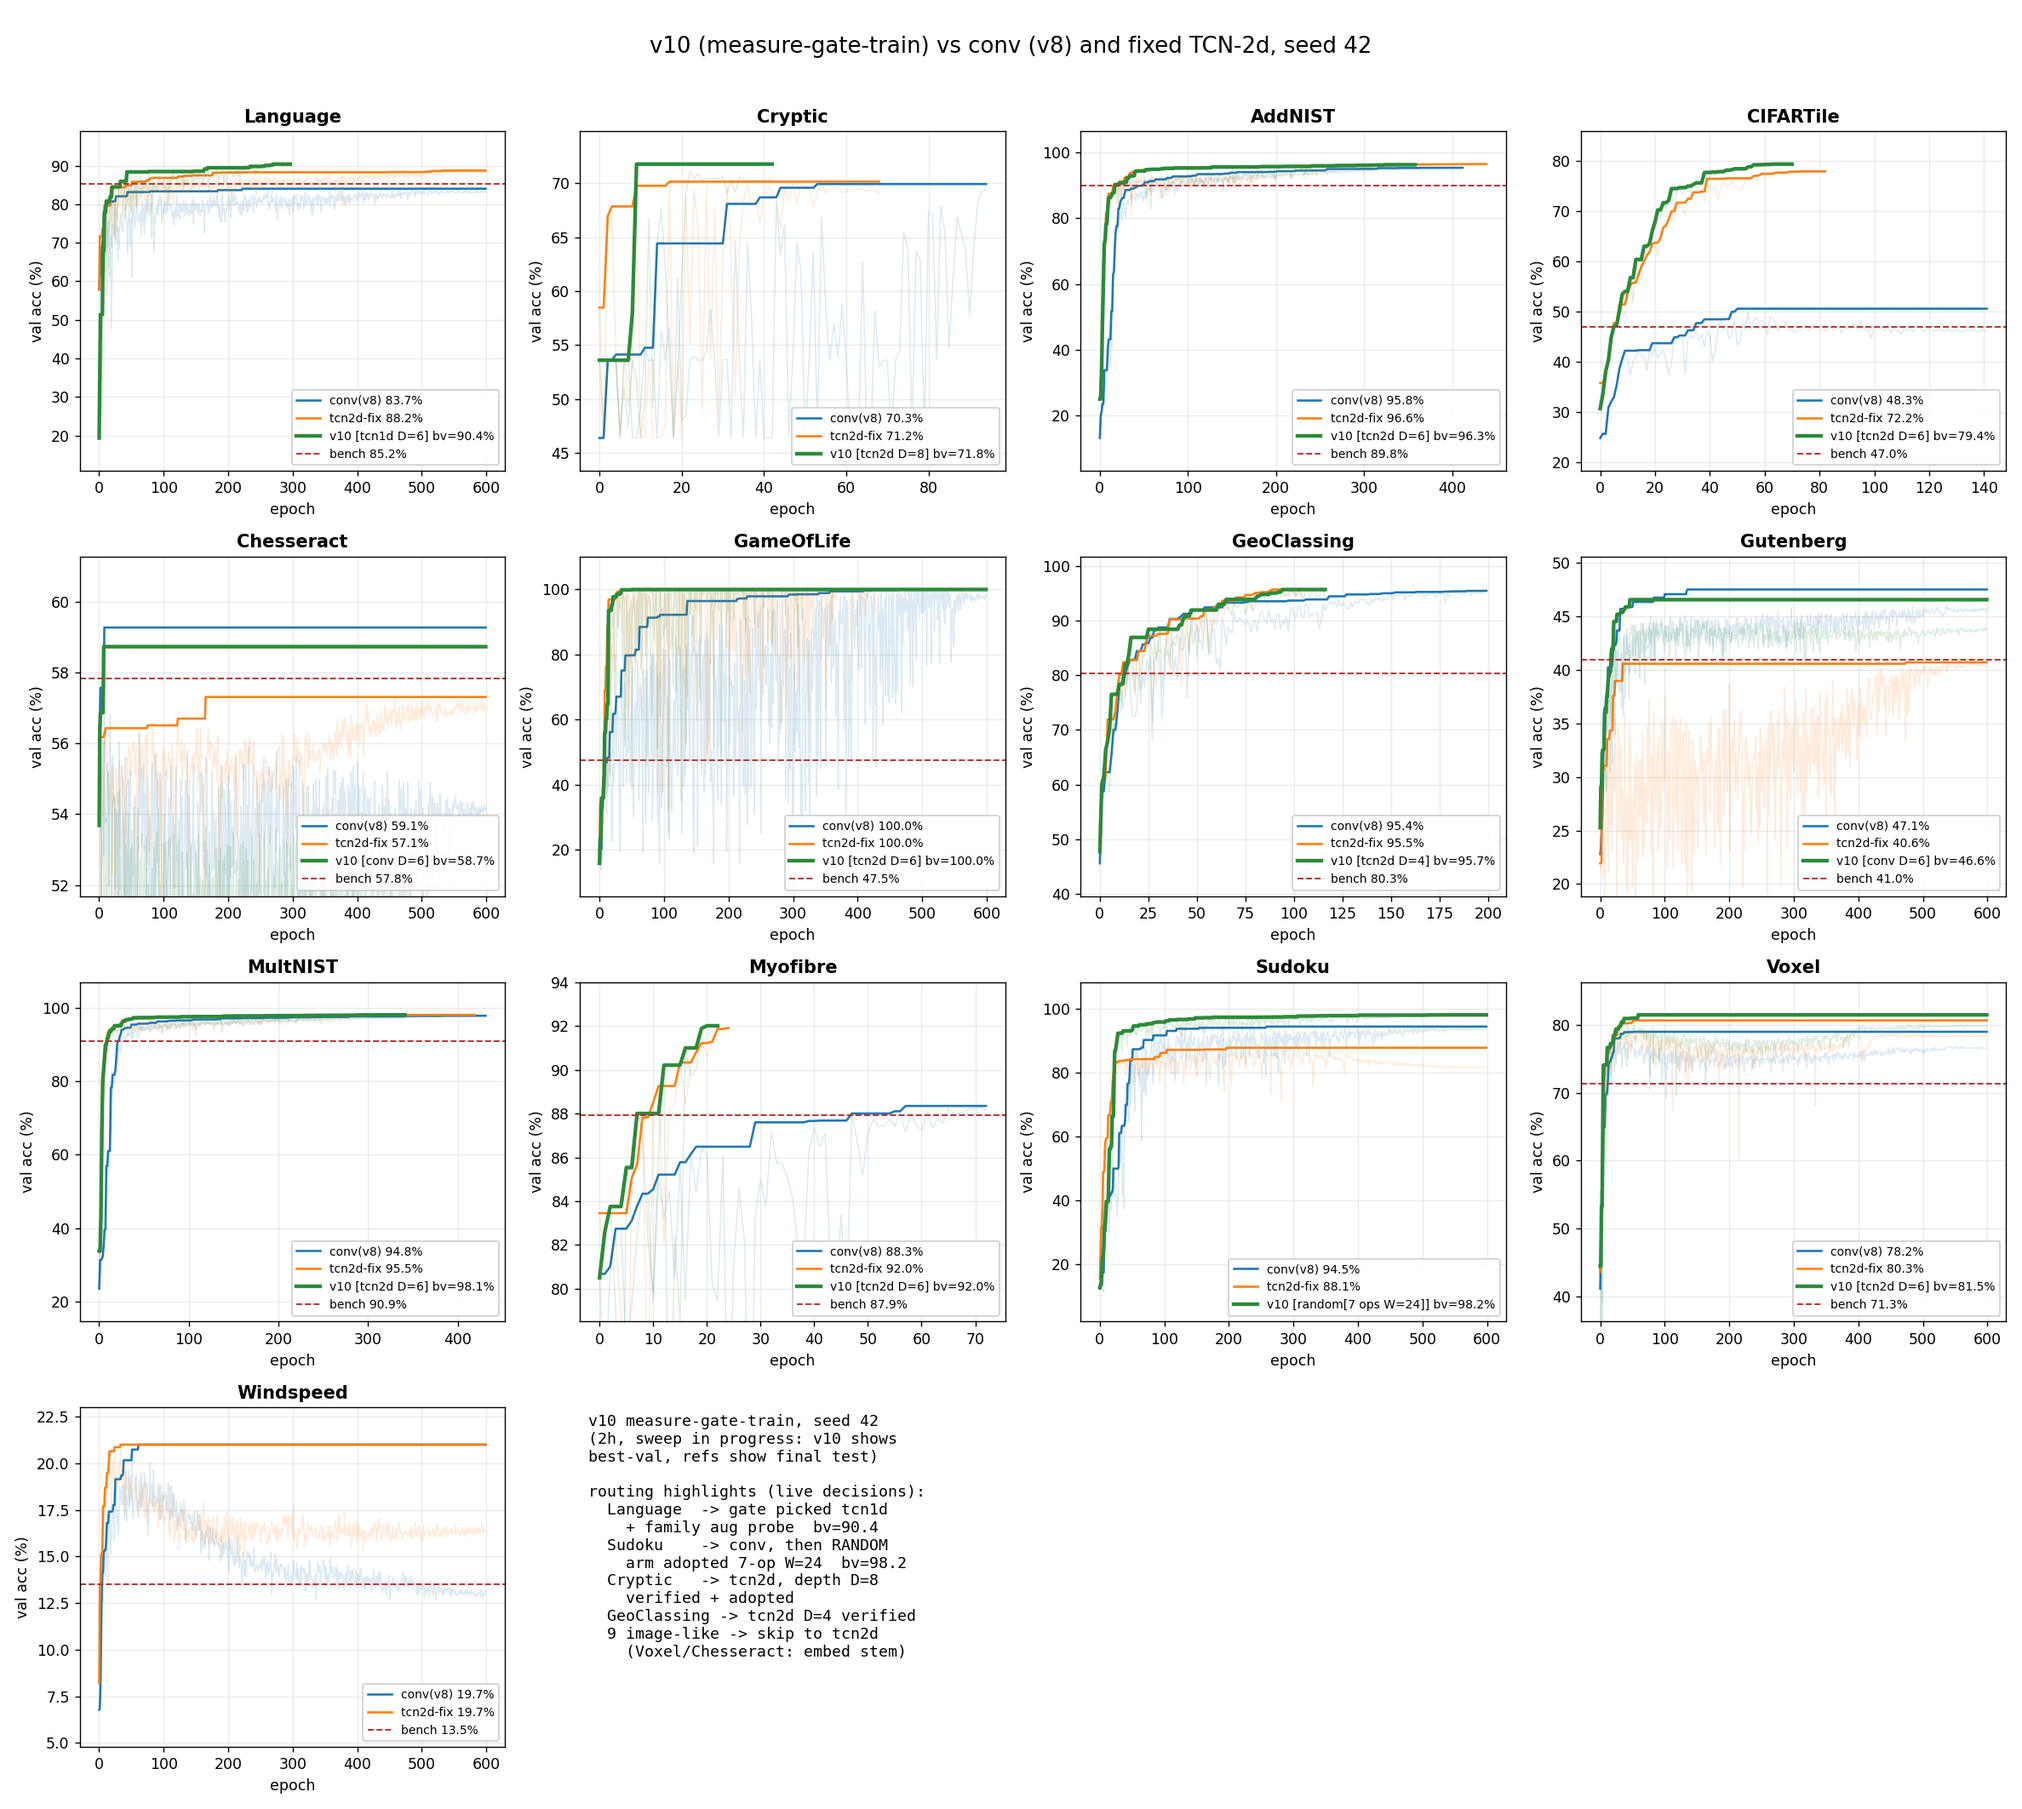
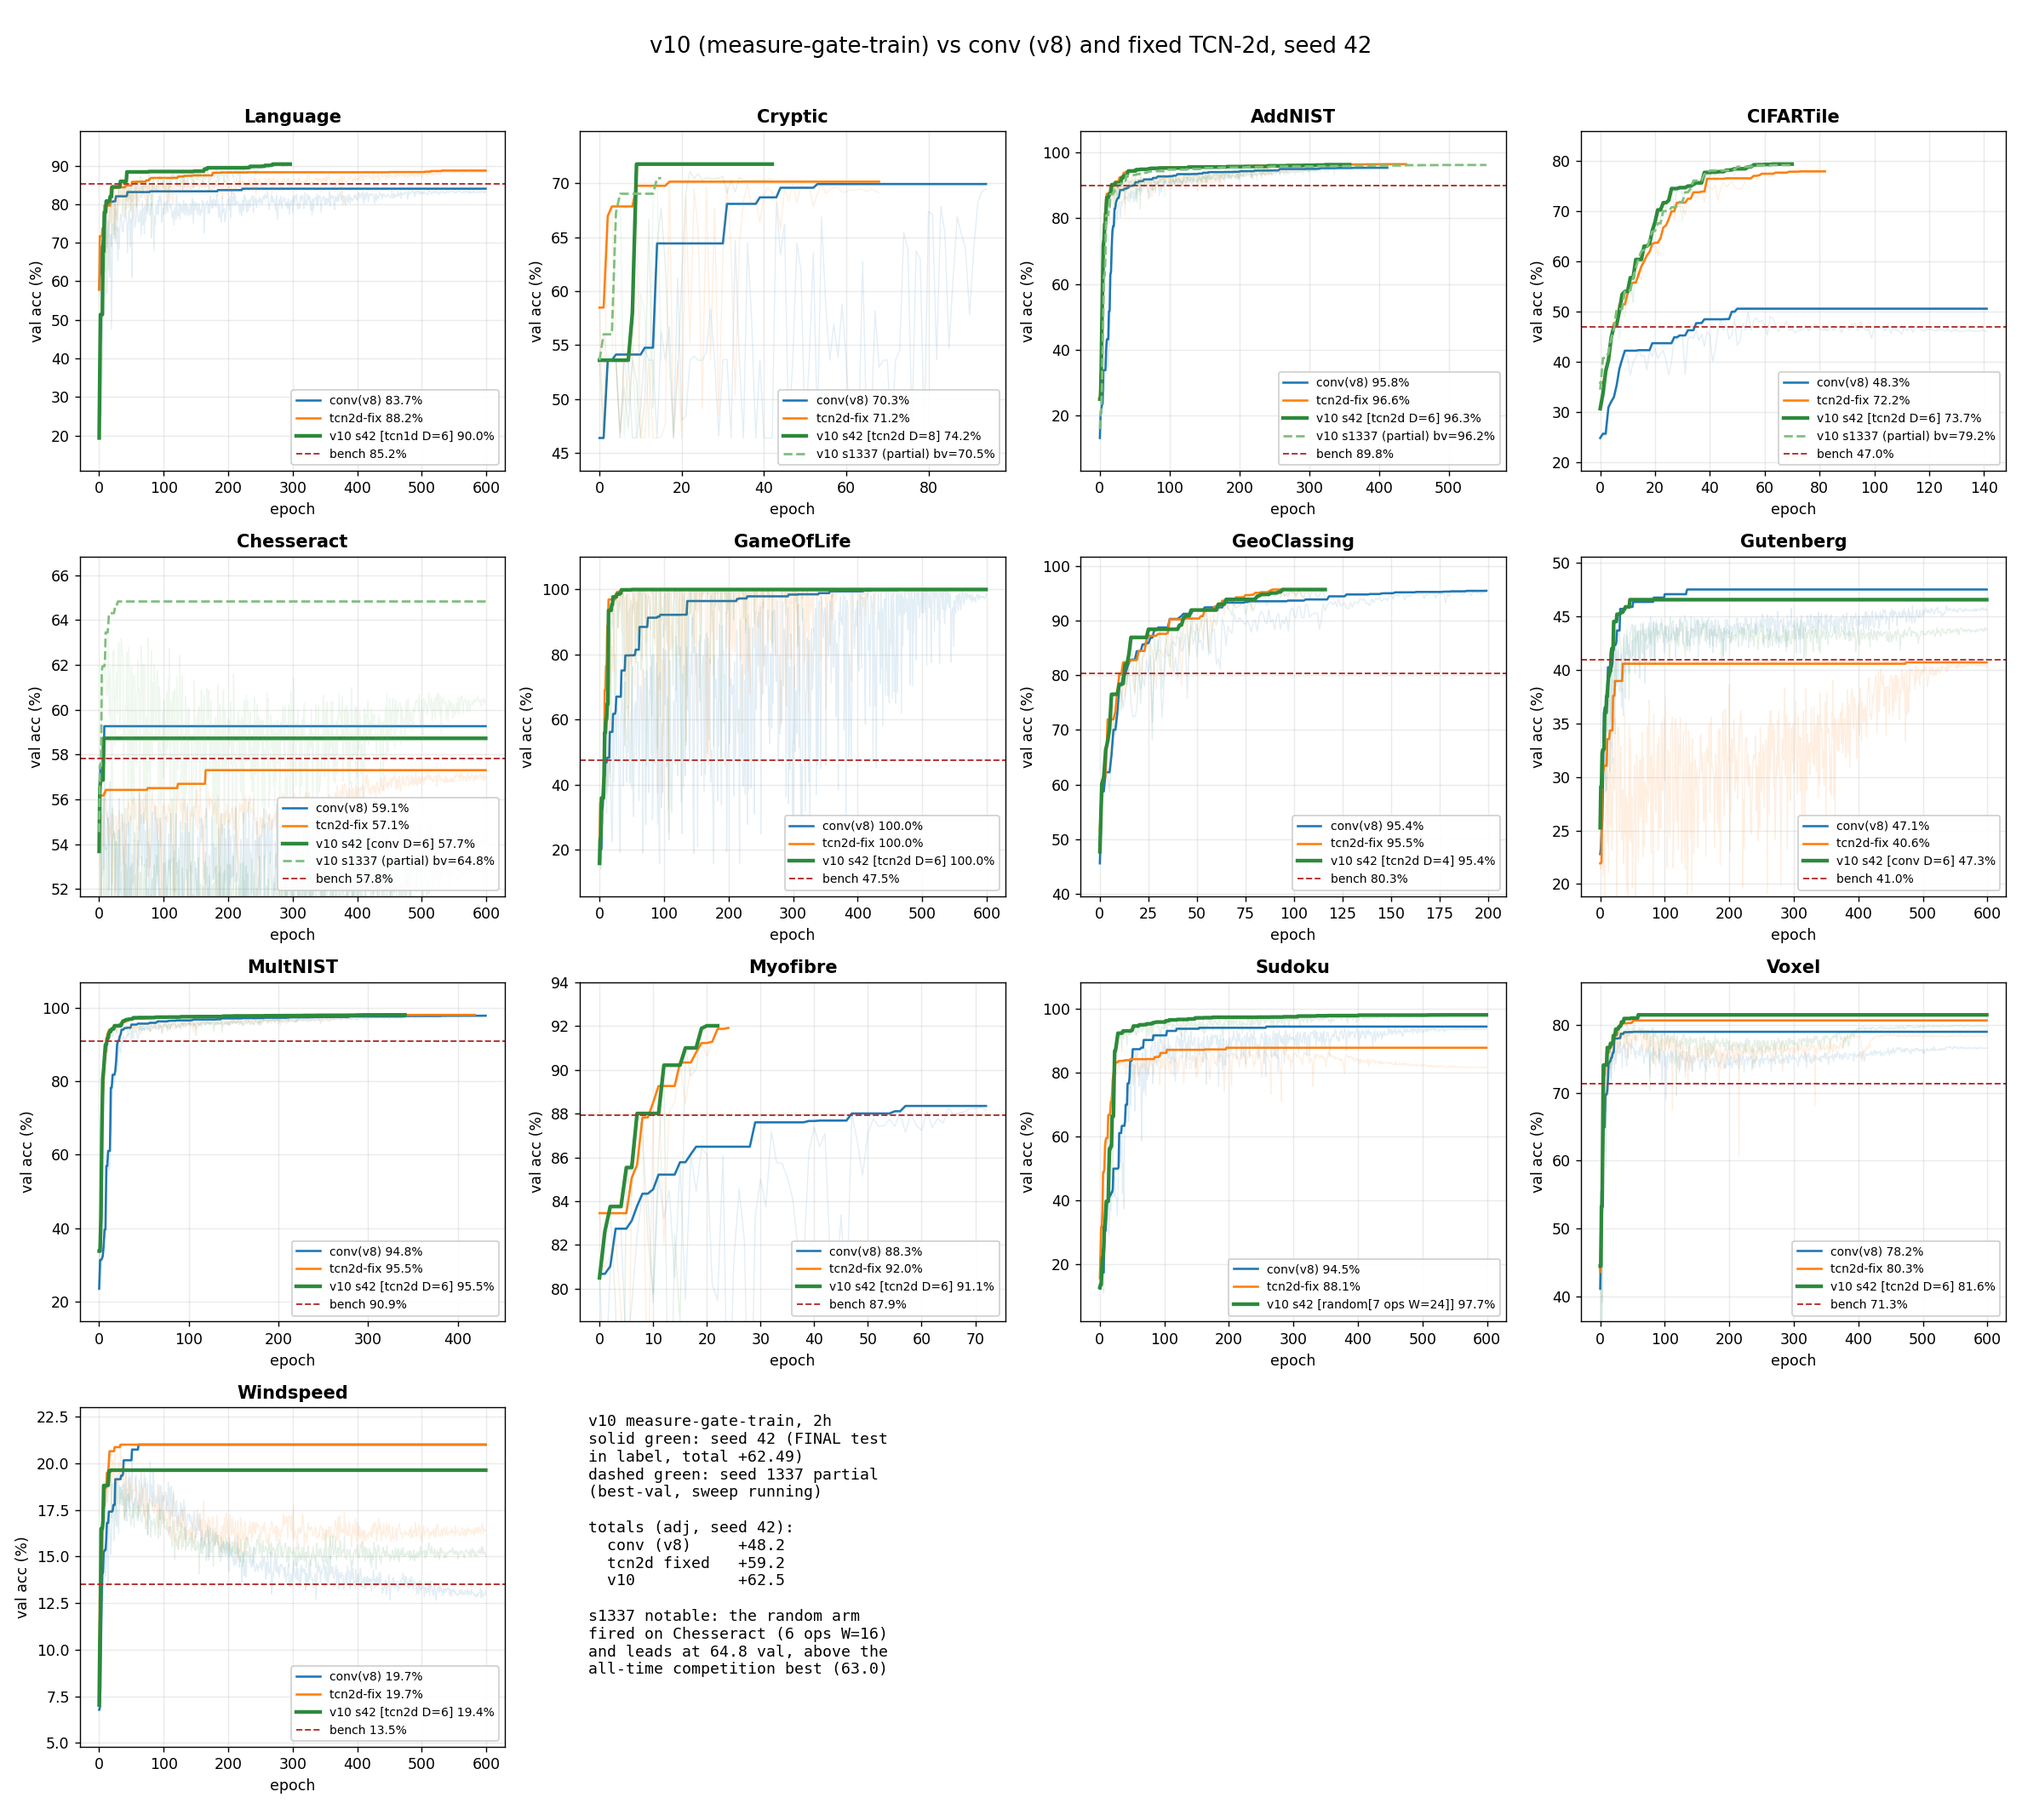
v10 curves grid: s42 final test labels + s1337 partial overlay (Chesseract random arm at 64.8 val)

diff --git a/dev/plot_v10_grid.py b/dev/plot_v10_grid.py
@@ -1,8 +1,7 @@
 #!/usr/bin/env python3
-"""v10 sweep curves (seed 42) vs the two key references: conv (v8) and the
-fixed TCN-2d probe. v10 labels show the ROUTED architecture from the
-decision records. While the seed is still scoring, v10 shows best-val.
-"""
+"""v10 sweep curves: seed 42 (final test scores) + seed 1337 partial overlay,
+vs the two key references: conv (v8) and the fixed TCN-2d probe. v10 labels
+show the ROUTED architecture from the decision records."""
 import csv
 import json
 from pathlib import Path
@@ -13,26 +12,28 @@ import matplotlib.pyplot as plt
 
 REPO = Path(__file__).resolve().parent.parent
 V10 = REPO / "dev/logs/v10_sweep/v10_s42"
+V10B = REPO / "dev/logs/v10_sweep/v10_s1337"
 OUT = REPO / "docs/notes/09 - Implementation/implementation/images/tier2a"
 OUT.mkdir(parents=True, exist_ok=True)
 
 CONV = "#1f77b4"; T2 = "#ff7f0e"; V10C = "#2c8a3a"; BENCHC = "#b53030"
 
-# name, codename, benchmark, conv(v8) test raw, tcn2d-fixed test raw
+# name, codename, benchmark, conv(v8) test raw, tcn2d-fixed test raw,
+# v10 s42 FINAL test raw (total +62.49)
 DATASETS = [
-    ("Language",    "LaMelo",    85.200, 83.68, 88.24),
-    ("Cryptic",     "Cryptic",    0.000, 70.27, 71.18),
-    ("AddNIST",     "Adaline",   89.850, 95.82, 96.62),
-    ("CIFARTile",   "Caitie",    47.008, 48.30, 72.20),
-    ("Chesseract",  "Chester",   57.826, 59.10, 57.08),
-    ("GameOfLife",  "conway",    47.530, 99.96, 99.99),
-    ("GeoClassing", "Sadie",     80.330, 95.38, 95.49),
-    ("Gutenberg",   "Gutenberg", 40.980, 47.08, 40.62),
-    ("MultNIST",    "Mateo",     90.870, 94.76, 95.52),
-    ("Myofibre",    "Myopia",    87.928, 88.33, 91.96),
-    ("Sudoku",      "Sokoto",     0.000, 94.46, 88.14),
-    ("Voxel",       "Volga",     71.350, 78.16, 80.33),
-    ("Windspeed",   "windspeed", 13.492, 19.74, 19.74),
+    ("Language",    "LaMelo",    85.200, 83.68, 88.24, 90.03),
+    ("Cryptic",     "Cryptic",    0.000, 70.27, 71.18, 74.25),
+    ("AddNIST",     "Adaline",   89.850, 95.82, 96.62, 96.33),
+    ("CIFARTile",   "Caitie",    47.008, 48.30, 72.20, 73.65),
+    ("Chesseract",  "Chester",   57.826, 59.10, 57.08, 57.66),
+    ("GameOfLife",  "conway",    47.530, 99.96, 99.99, 100.00),
+    ("GeoClassing", "Sadie",     80.330, 95.38, 95.49, 95.36),
+    ("Gutenberg",   "Gutenberg", 40.980, 47.08, 40.62, 47.28),
+    ("MultNIST",    "Mateo",     90.870, 94.76, 95.52, 95.52),
+    ("Myofibre",    "Myopia",    87.928, 88.33, 91.96, 91.09),
+    ("Sudoku",      "Sokoto",     0.000, 94.46, 88.14, 97.70),
+    ("Voxel",       "Volga",     71.350, 78.16, 80.33, 81.56),
+    ("Windspeed",   "windspeed", 13.492, 19.74, 19.74, 19.36),
 ]
 
 
@@ -58,23 +59,25 @@ def v10_arch(code):
 fig, axes = plt.subplots(4, 4, figsize=(19, 17), squeeze=False)
 flat = axes.flatten()
 
-for ax, (name, code, bench, conv_raw, t2_raw) in zip(flat, DATASETS):
+for ax, (name, code, bench, conv_raw, t2_raw, v10_raw) in zip(flat, DATASETS):
     series = [
         (REPO / f"dev/logs/tier2a_p1_v8/p1v8_s42/{code}.csv",
-         CONV, f"conv(v8) {conv_raw:.1f}%", 1.5),
+         CONV, f"conv(v8) {conv_raw:.1f}%", 1.5, "-"),
         (REPO / f"dev/logs/tcn_probe/tcn2d_{name}_s42/{code}.csv",
-         T2, f"tcn2d-fix {t2_raw:.1f}%", 1.5),
-        (V10 / f"{code}.csv", V10C, None, 2.5),
+         T2, f"tcn2d-fix {t2_raw:.1f}%", 1.5, "-"),
+        (V10 / f"{code}.csv", V10C,
+         f"v10 s42 [{v10_arch(code)}] {v10_raw:.1f}%", 2.5, "-"),
+        (V10B / f"{code}.csv", "#7fbf7f", None, 1.6, "--"),
     ]
     lo, hi = 100.0, 0.0
-    for path, c, lab, lw in series:
+    for path, c, lab, lw, ls in series:
         if not path.exists():
             continue
         ep, val, best = load(path)
         if lab is None:
-            lab = f"v10 [{v10_arch(code)}] bv={best.max():.1f}%"
-        ax.plot(ep, val, color=c, alpha=0.15, linewidth=0.9)
-        ax.plot(ep, best, color=c, linewidth=lw, label=lab)
+            lab = f"v10 s1337 (partial) bv={best.max():.1f}%"
+        ax.plot(ep, val, color=c, alpha=0.12, linewidth=0.8)
+        ax.plot(ep, best, color=c, linewidth=lw, linestyle=ls, label=lab)
         lo, hi = min(lo, float(best.min())), max(hi, float(best.max()))
     if bench > 0:
         ax.axhline(bench, color=BENCHC, linestyle="--", linewidth=1.1,
@@ -89,19 +92,19 @@ for ax, (name, code, bench, conv_raw, t2_raw) in zip(flat, DATASETS):
 
 ax = flat[len(DATASETS)]; ax.axis("off")
 ax.text(0.02, 0.98,
-        "v10 measure-gate-train, seed 42\n"
-        "(2h, sweep in progress: v10 shows\n"
-        "best-val, refs show final test)\n\n"
-        "routing highlights (live decisions):\n"
-        "  Language  -> gate picked tcn1d\n"
-        "    + family aug probe  bv=90.4\n"
-        "  Sudoku    -> conv, then RANDOM\n"
-        "    arm adopted 7-op W=24  bv=98.2\n"
-        "  Cryptic   -> tcn2d, depth D=8\n"
-        "    verified + adopted\n"
-        "  GeoClassing -> tcn2d D=4 verified\n"
-        "  9 image-like -> skip to tcn2d\n"
-        "    (Voxel/Chesseract: embed stem)",
+        "v10 measure-gate-train, 2h\n"
+        "solid green: seed 42 (FINAL test\n"
+        "in label, total +62.49)\n"
+        "dashed green: seed 1337 partial\n"
+        "(best-val, sweep running)\n\n"
+        "totals (adj, seed 42):\n"
+        "  conv (v8)     +48.2\n"
+        "  tcn2d fixed   +59.2\n"
+        "  v10           +62.5\n\n"
+        "s1337 notable: the random arm\n"
+        "fired on Chesseract (6 ops W=16)\n"
+        "and leads at 64.8 val, above the\n"
+        "all-time competition best (63.0)",
         transform=ax.transAxes, fontsize=10.5, va="top", family="monospace")
 for j in range(len(DATASETS) + 1, len(flat)):
     flat[j].axis("off")
